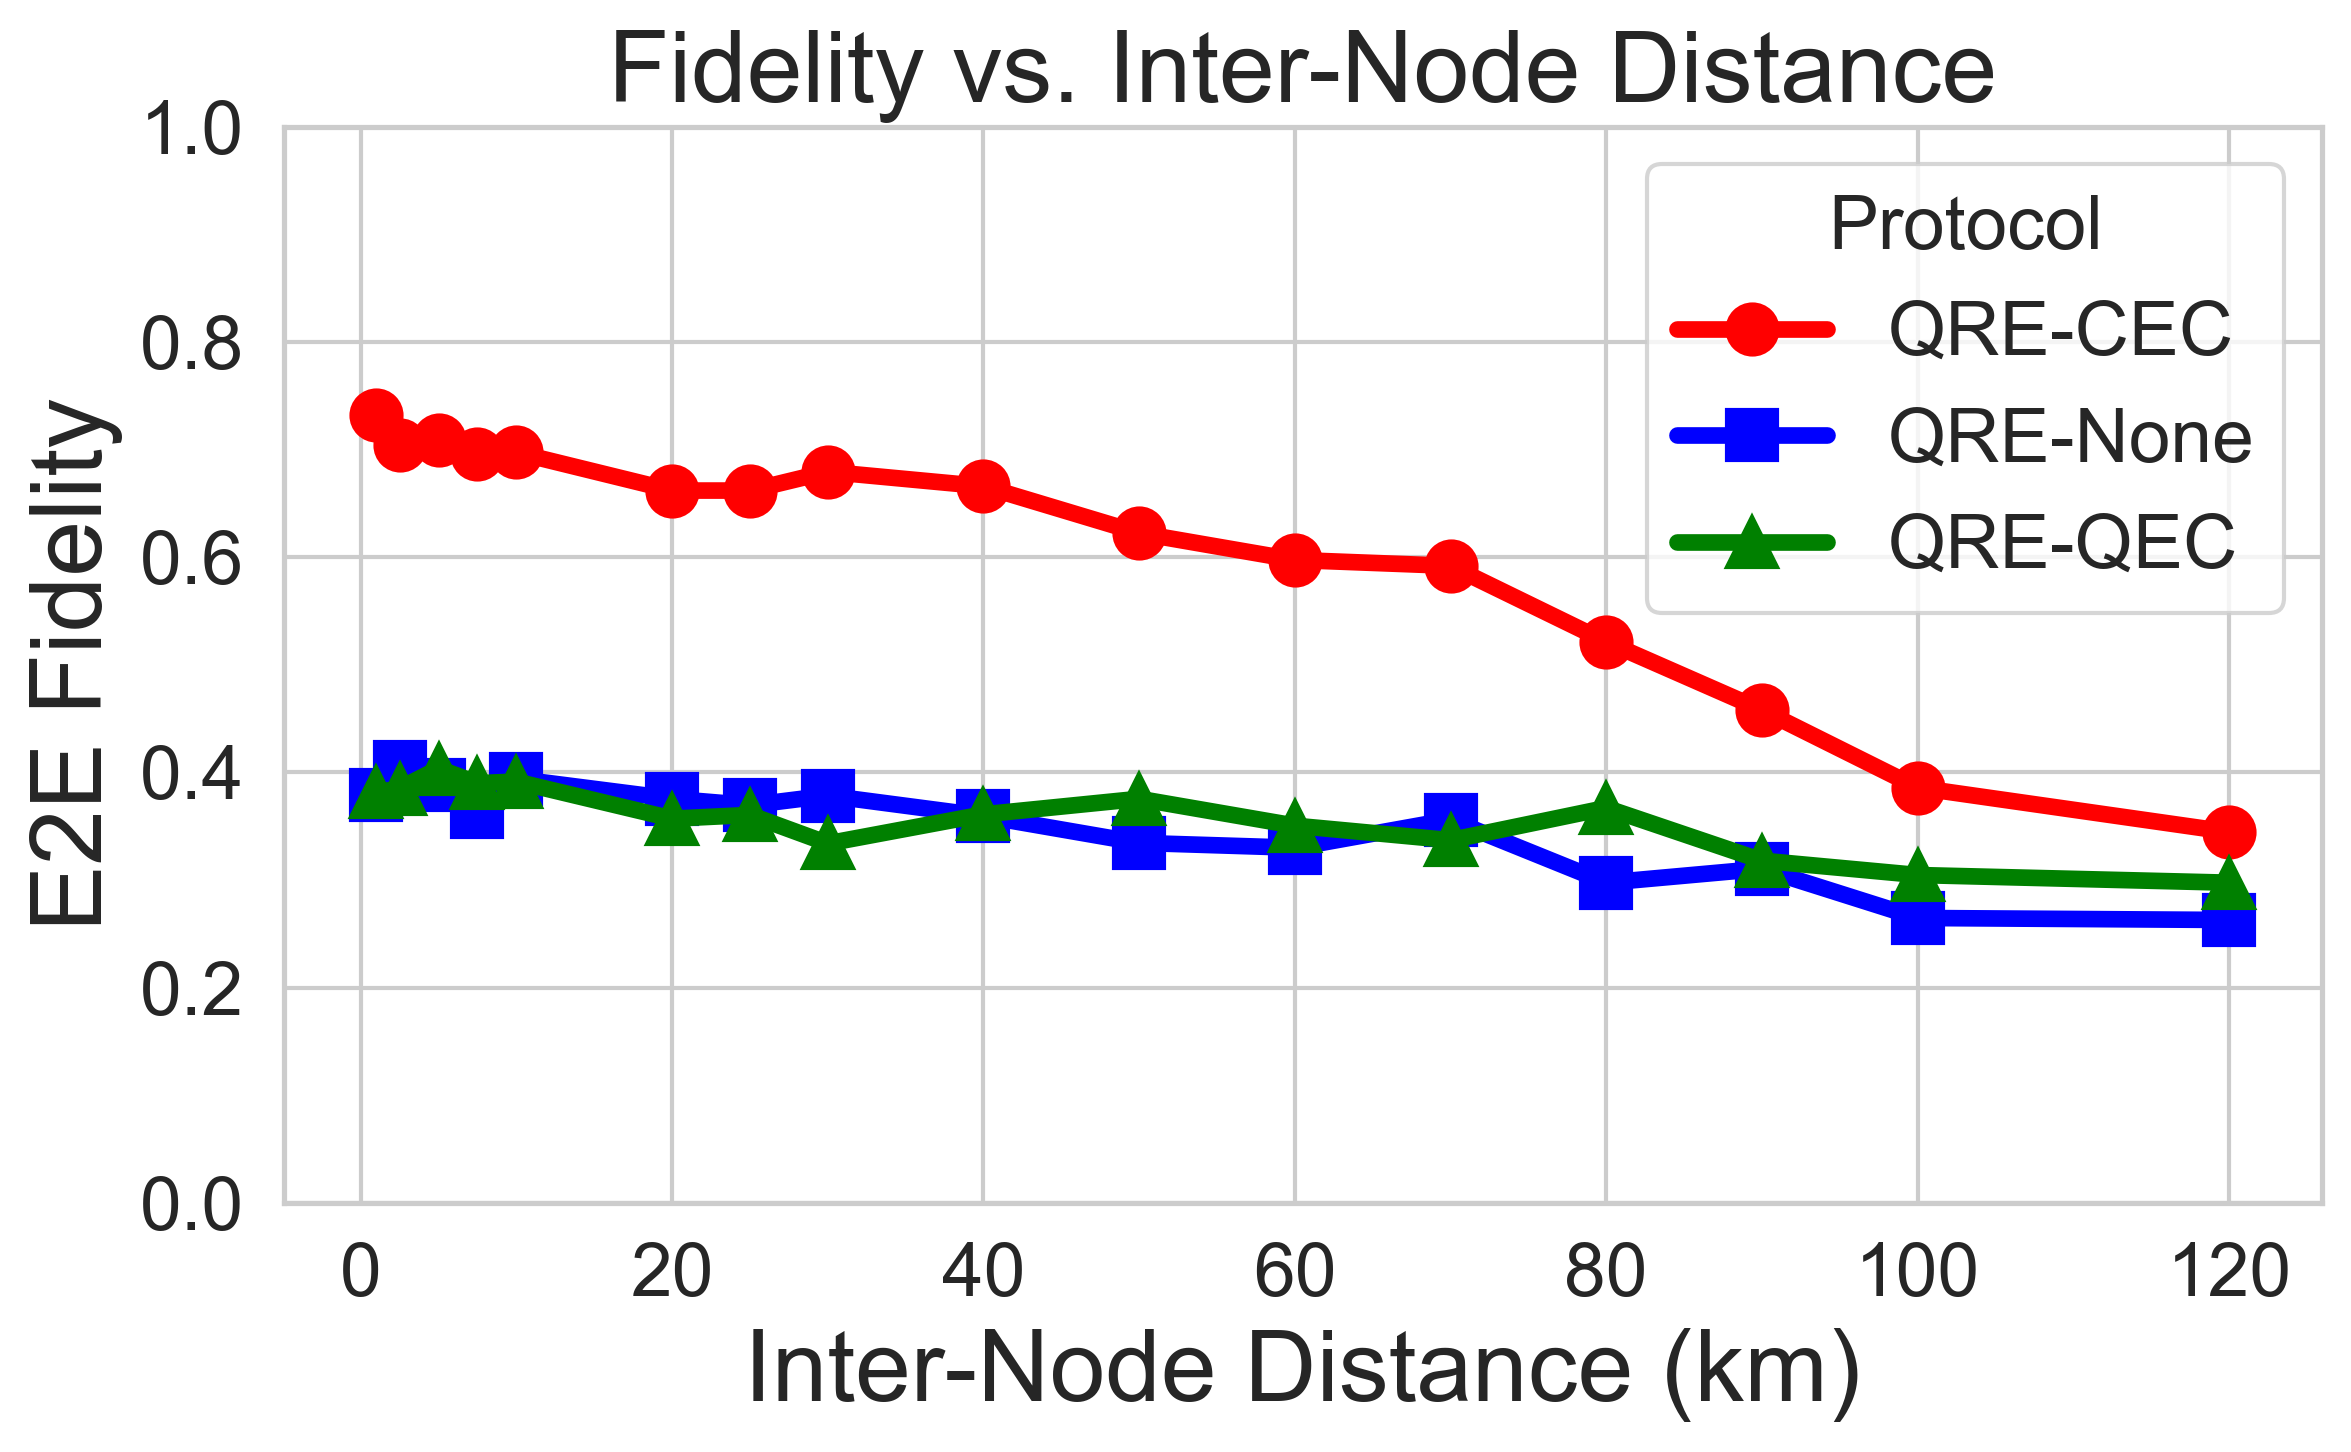
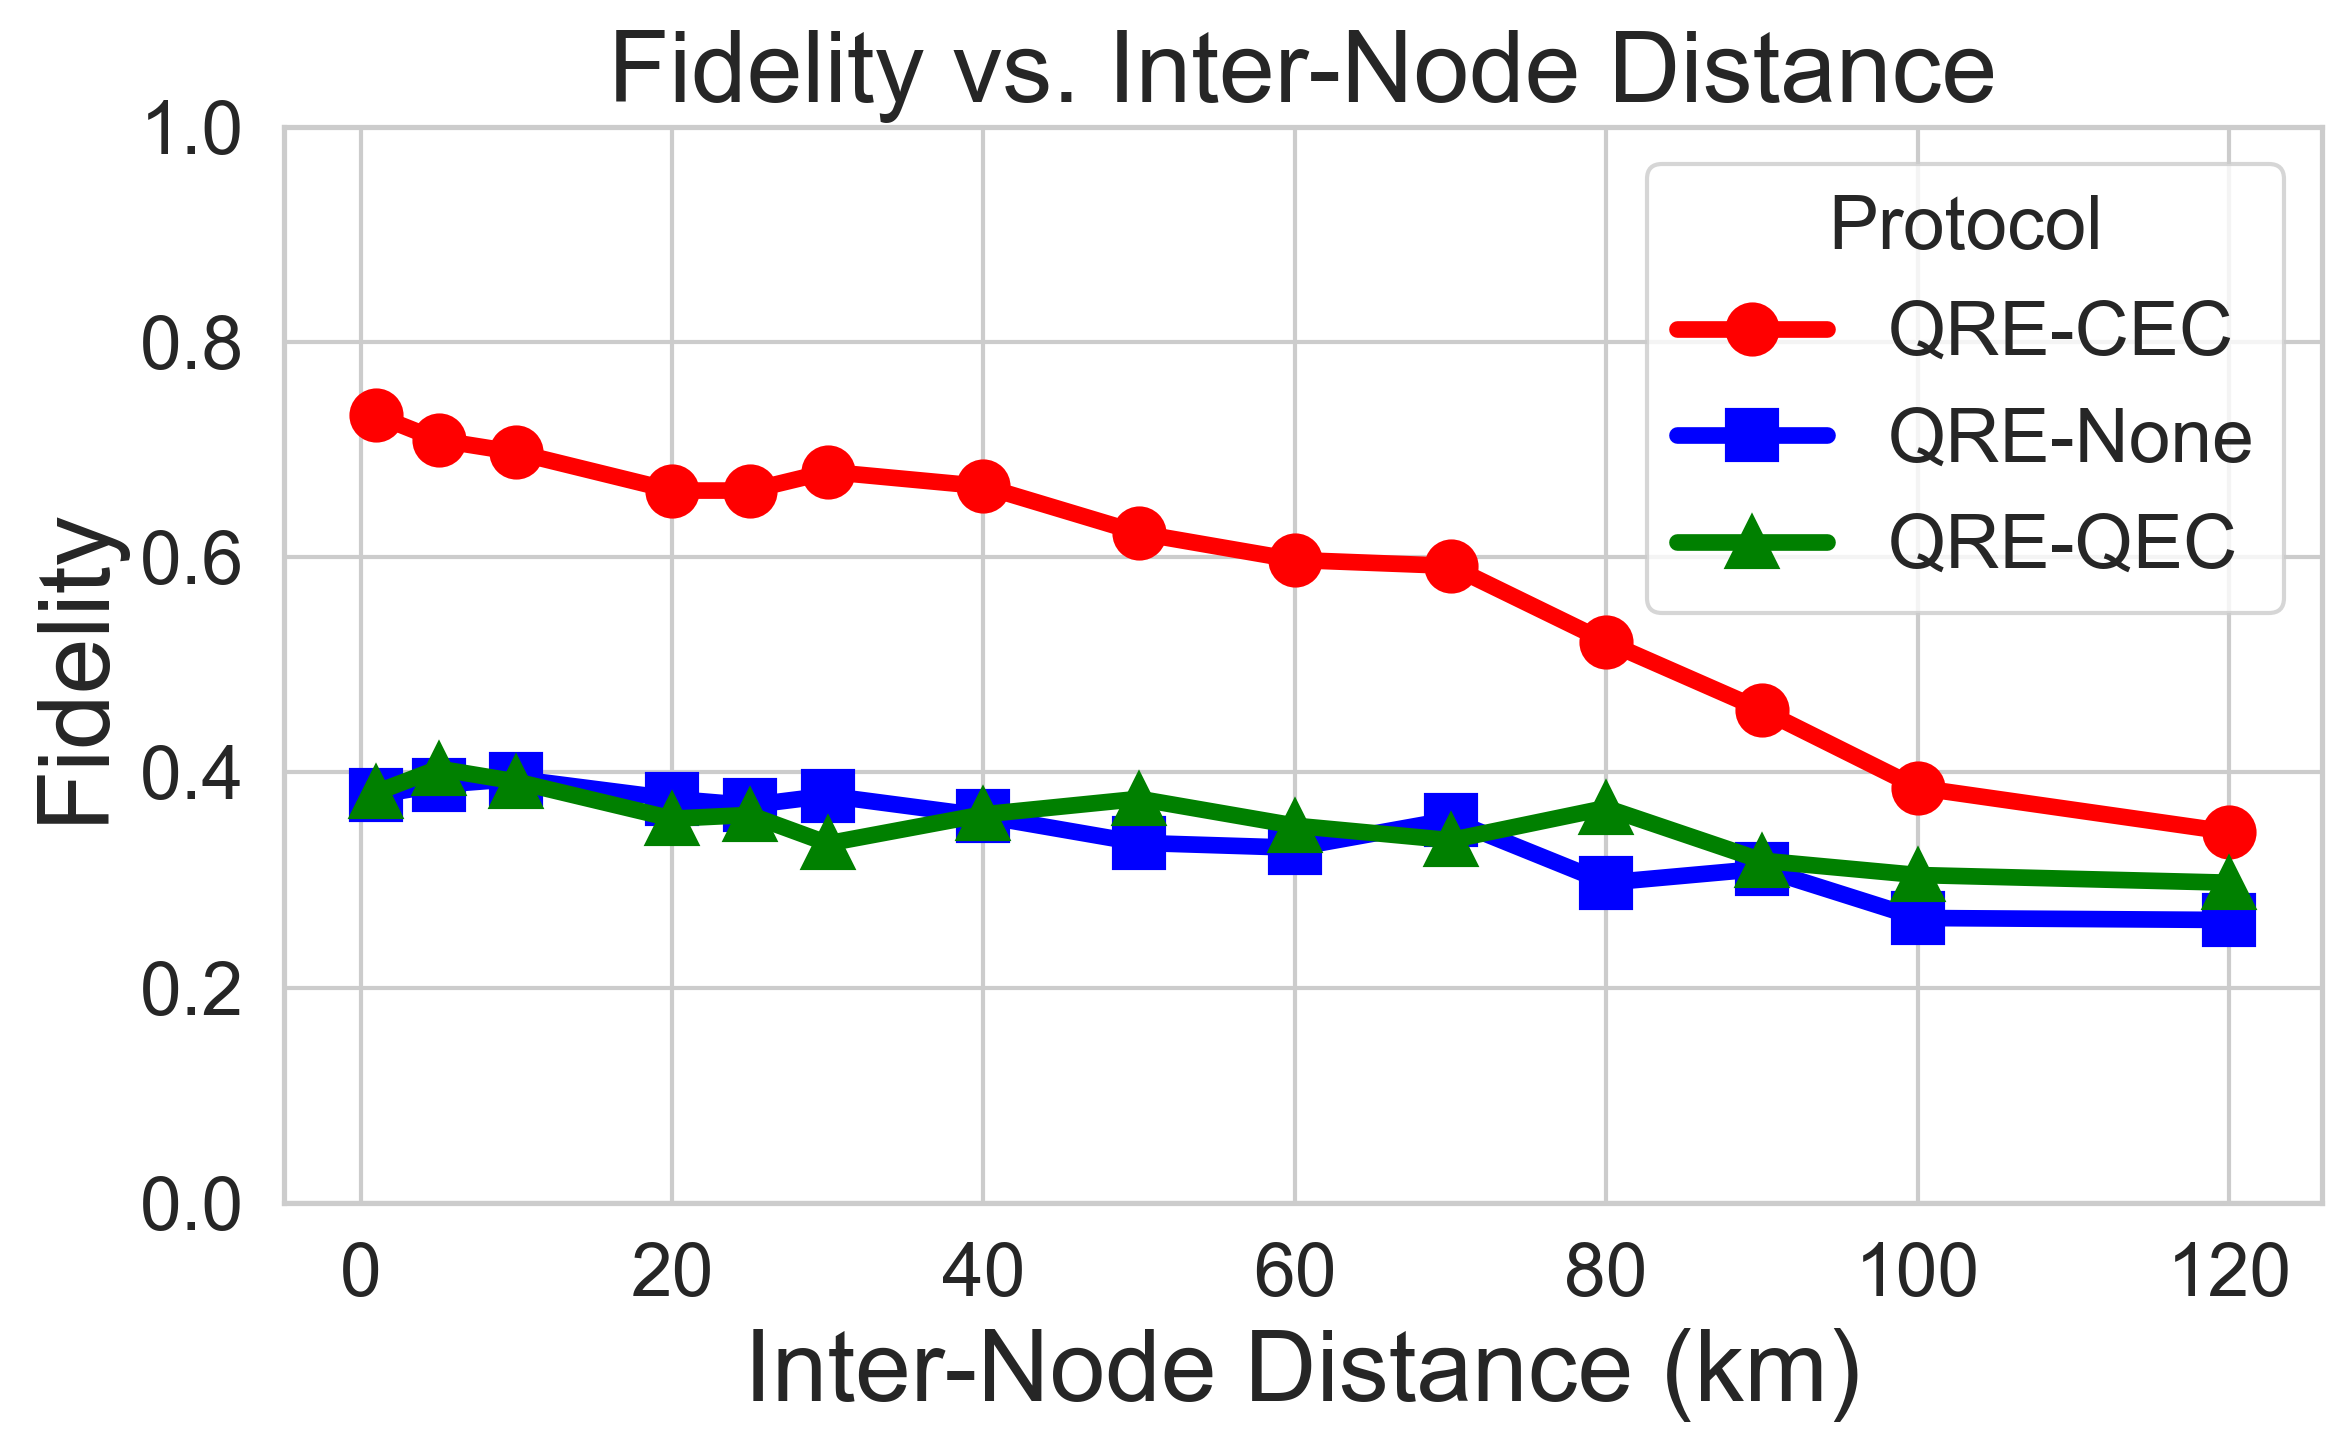
added new graph test and also changed topology to 6 node 20 internode distance

Changed region(s): [[0.0, 0.2789, 0.0621, 0.6508], [0.1553, 0.4959, 0.2174, 0.5888], [0.1553, 0.2789, 0.2174, 0.3409]]

diff --git a/runner.py b/runner.py
@@ -5,11 +5,11 @@ from subprocess import PIPE, Popen
 
 
 BASE_ARGS = [
-    "--config_file", "config/standard_configs/line_11_2G.json",
+    "--config_file", "config/standard_configs/line_6_2G.json",
     "--css_code", "[[7,1,3]]",
     "--target_fidelity", "0.8",
     "--num_logical_pairs", "200",
-    "--link_distance_km", "10.0",
+    "--link_distance_km", "20.0",
     "--gate_fidelity", "0.9996",
     "--two_qubit_gate_fidelity", "0.997",
     "--measurement_fidelity", "0.995",
@@ -85,7 +85,7 @@ def main_graph1_twoqubit_gate_sweep() -> None:
     tasks = []
     base_dir = Path(__file__).resolve().parent
     command = [sys.executable, str(base_dir / "main.py")]
-    base_args = BASE_ARGS + ["--config_file", "config/standard_configs/line_11_2G.json", "--num_logical_pairs", "1000", "--log_directory", "log/runner/graph1_twoqubit_gate_sweep"]
+    base_args = BASE_ARGS + ["--log_directory", "log/runner/graph1_twoqubit_gate_sweep"]
 
     two_qubit_gate_fidelities = ["0.995", "0.996", "0.997", "0.998", "0.999", "0.9995", "1.0"]
 
@@ -118,9 +118,9 @@ def main_graph2_data_coherence_sweep() -> None:
     tasks = []
     base_dir = Path(__file__).resolve().parent
     command = [sys.executable, str(base_dir / "main.py")]
-    base_args = BASE_ARGS + ["--config_file", "config/standard_configs/line_11_2G.json", "--num_logical_pairs", "1000", "--run_duration_ms", "10000.0", "--log_directory", "log/runner/graph2_t2_sweep"]
+    base_args = BASE_ARGS + ["--log_directory", "log/runner/graph2_t2_sweep"]
 
-    idle_t2_times = [0.01, 0.1, 1, 5, 10, 50, 100, 199.99]  # Sweep only T2 in seconds while holding T1 fixed.
+    idle_t2_times = [0.01, 0.1, 1, 5, 10, 50, 100, 199.999]  # Sweep only T2 in seconds while holding T1 fixed.
 
     correction_modes = ["none", "cec", "qec"]
     for idle_t2_sec in idle_t2_times:
@@ -146,13 +146,13 @@ def main_graph3_distance_sweep() -> None:
     command = [sys.executable, str(base_dir / "main.py")]
     correction_modes = ["none", "cec", "qec"]
     # Tuples are (config_file, run_duration_ms).
-    # config_duration_pairs = [("config/standard_configs/line_2_2G.json", 10000.0), ("config/standard_configs/line_6_2G.json", 50000.0), ("config/standard_configs/line_11_2G.json", 100000.0), ("config/standard_configs/line_26_2G.json", 250000.0), ("config/standard_configs/line_51_2G.json", 500000.0), ("config/standard_configs/line_101_2G.json", 1000000.0)]
-    # config_duration_pairs = [("config/standard_configs/line_26_2G.json", 250000.0), ("config/standard_configs/line_51_2G.json", 500000.0), ("config/standard_configs/line_101_2G.json", 1000000.0)]
-    config_duration_pairs = [("config/standard_configs/line_26_2G.json", 10000.0), ("config/standard_configs/line_51_2G.json", 10000.0)]
-    # config_duration_pairs = [("config/standard_configs/line_101_2G.json", 10000.0)]
-
-    for config_file, run_duration_ms in config_duration_pairs:
-        base_args = BASE_ARGS + ["--config_file", config_file, "--num_logical_pairs", "1000", "--run_duration_ms", str(run_duration_ms), "--log_directory", "log/runner/graph3_distance_sweep"]
+    config_duration_pairs = [("config/standard_configs/line_2_2G.json"), ("config/standard_configs/line_6_2G.json"), 
+                             ("config/standard_configs/line_11_2G.json",), ("config/standard_configs/line_26_2G.json"), 
+                             ("config/standard_configs/line_51_2G.json"), ("config/standard_configs/line_101_2G.json" )]
+   
+   # config_duration_pairs = [("config/standard_configs/line_101_2G.json", 10000.0)]
+    for config_file in config_duration_pairs:
+        base_args = BASE_ARGS + ["--config_file", config_file, "--log_directory", "log/runner/graph3_distance_sweep"]
         for correction_mode in correction_modes:
             args = ["--correction_mode", correction_mode]
             tasks.append(command + base_args + args)
@@ -176,20 +176,20 @@ def main_graph4_link_count_sweep() -> None:
     correction_modes = ["none", "cec", "qec"]
     total_end_to_end_distance_km = 100.0
     config_duration_pairs = [
-        ("config/standard_configs/line_2_2G.json",   10000.0),
-        ("config/standard_configs/line_3_2G.json",   10000.0),
-        ("config/standard_configs/line_6_2G.json",   10000.0),
-        ("config/standard_configs/line_11_2G.json",  10000.0),
-        ("config/standard_configs/line_21_2G.json",  10000.0),
-        ("config/standard_configs/line_51_2G.json",  10000.0),
-        ("config/standard_configs/line_101_2G.json", 10000.0),
+        ("config/standard_configs/line_2_2G.json"),
+        ("config/standard_configs/line_3_2G.json"),
+        ("config/standard_configs/line_6_2G.json"),
+        ("config/standard_configs/line_11_2G.json"),
+        ("config/standard_configs/line_21_2G.json"),
+        ("config/standard_configs/line_51_2G.json"),
+        ("config/standard_configs/line_101_2G.json"),
     ]
 
-    for config_file, run_duration_ms in config_duration_pairs:
+    for config_file in config_duration_pairs:
         node_count = int(Path(config_file).stem.split("_")[1])
         num_links = node_count - 1
         inter_node_distance_km = total_end_to_end_distance_km / num_links
-        base_args = BASE_ARGS + ["--config_file", config_file, "--link_distance_km", str(inter_node_distance_km), "--num_logical_pairs", "1000", "--run_duration_ms", str(run_duration_ms), "--log_directory", "log/runner/graph4_link_count_sweep"]
+        base_args = BASE_ARGS + ["--config_file", config_file, "--link_distance_km", str(inter_node_distance_km), "--log_directory", "log/runner/graph4_link_count_sweep"]
         for correction_mode in correction_modes:
             args = ["--correction_mode", correction_mode]
             tasks.append(command + base_args + args)
@@ -210,10 +210,10 @@ def main_graph5_inter_node_distance_sweep() -> None:
     tasks = []
     base_dir = Path(__file__).resolve().parent
     command = [sys.executable, str(base_dir / "main.py")]
-    base_args = BASE_ARGS + ["--config_file", "config/standard_configs/line_6_2G.json", "--num_logical_pairs", "1000", "--run_duration_ms", "10000.0", "--log_directory", "log/runner/graph5_inter_node_distance_sweep"]
+    base_args = BASE_ARGS + ["--run_duration_ms", "20000.0", "--log_directory", "log/runner/graph5_inter_node_distance_sweep"]
 
-    # inter_node_distances_km = ["1.0", "2.5", "5.0", "7.5", "10.0", "25.0", "50.0", "100.0"]
-    inter_node_distances_km = ["20", "30", "40", "60", "70", "80", "90"]
+    inter_node_distances_km = ["1.0", "5.0", "10.0", "20", "30", "40", "50", "60", "70", "80", "90", "100.0", "110.0", "120.0"]
+
     correction_modes = ["none", "cec", "qec"]
     for inter_node_distance_km in inter_node_distances_km:
         for correction_mode in correction_modes:
@@ -221,6 +221,32 @@ def main_graph5_inter_node_distance_sweep() -> None:
             tasks.append(command + base_args + args)
 
     run_tasks(tasks, parallel=21)
+
+# Graph 6
+def main_graph6_physical_bell_pair_fidelity_sweep() -> None:
+    """Run a 6-node sweep while varying only the physical Bell-pair fidelity.
+
+    Args:
+        None.
+
+    Returns:
+        None.
+    """
+    tasks = []
+    base_dir = Path(__file__).resolve().parent
+    command = [sys.executable, str(base_dir / "main.py")]
+
+    log_directory = "log/runner_1.0EntanglementFidelity/graph6_physical_bell_pair_fidelity_sweep"
+    base_args = BASE_ARGS + [ "--log_directory", log_directory]
+
+    physical_bell_pair_fidelities = ["0.95", "0.96", "0.97", "0.98", "0.99", "0.995", "1.0"]
+    correction_modes = ["none", "cec", "qec"]
+    for physical_bell_pair_fidelity in physical_bell_pair_fidelities:
+        for correction_mode in correction_modes:
+            args = ["--physical_bell_pair_fidelity", physical_bell_pair_fidelity, "--correction_mode", correction_mode]
+            tasks.append(command + base_args + args)
+
+    run_tasks(tasks, parallel=24)
 
 
 if __name__ == "__main__":

diff --git a/main.py b/main.py
@@ -63,6 +63,7 @@ def main() -> None:
     parser.add_argument("--idle_pauli_y", type=float)
     parser.add_argument("--idle_pauli_z", type=float)
     parser.add_argument("--verbose", action="store_true")
+    parser.add_argument("--physical_bell_pair_fidelity", type=float, default=0.99)
     args = parser.parse_args()
 
     config_file = args.config_file
@@ -81,6 +82,9 @@ def main() -> None:
 
     with open(config_file, "r", encoding="utf-8") as file:
         config = json.load(file)
+
+
+    config["templates"]["qec"]["memory"]["fidelity"] = float(args.physical_bell_pair_fidelity)
 
     # Apply per-router hardware and protocol overrides from the CLI.
     for node in config["nodes"]:
@@ -125,6 +129,7 @@ def main() -> None:
 
     os.makedirs(args.log_directory, exist_ok=True)
 
+    # Create a log filename that captures the key config parameters for easy identification when browsing files.
     config_tag = os.path.splitext(os.path.basename(args.config_file))[0]
     dist_tag = "cfg" if args.link_distance_km is None else str(args.link_distance_km)
     gate_tag = "cfg" if args.gate_fidelity is None else str(args.gate_fidelity)
@@ -134,6 +139,7 @@ def main() -> None:
     t2_tag = "cfg" if args.idle_t2_sec is None else str(args.idle_t2_sec)
     ft_tag = "cfg" if args.ft_prep_mode is None else args.ft_prep_mode
     pauli_tag = "cfg" if args.idle_pauli_x is None else f"{args.idle_pauli_x}_{args.idle_pauli_y}_{args.idle_pauli_z}"
+    phys_bell_tag = "cfg" if args.physical_bell_pair_fidelity is None else str(args.physical_bell_pair_fidelity)
     correction_tag = args.correction_mode
     timestamp_tag = datetime.now().strftime("%Y%m%d_%H%M")
 
@@ -143,8 +149,9 @@ def main() -> None:
     log_filename = (
         f"{args.log_directory}/{config_tag},code={args.css_code},dist={dist_tag},"
         f"gate={gate_tag},twoq={twoq_tag},prep={prep_tag},T1={t1_tag},T2={t2_tag},"
-        f"ft={ft_tag},pauli={pauli_tag},ccorr={correction_tag},ts={timestamp_tag}"
+        f"ft={ft_tag},pauli={pauli_tag},ccorr={correction_tag},physbell={phys_bell_tag},ts={timestamp_tag}"
     )
+
     log.set_logger(__name__, tl, log_filename)
     log.set_logger_level(args.log_level)
     # modules = ["main"]
